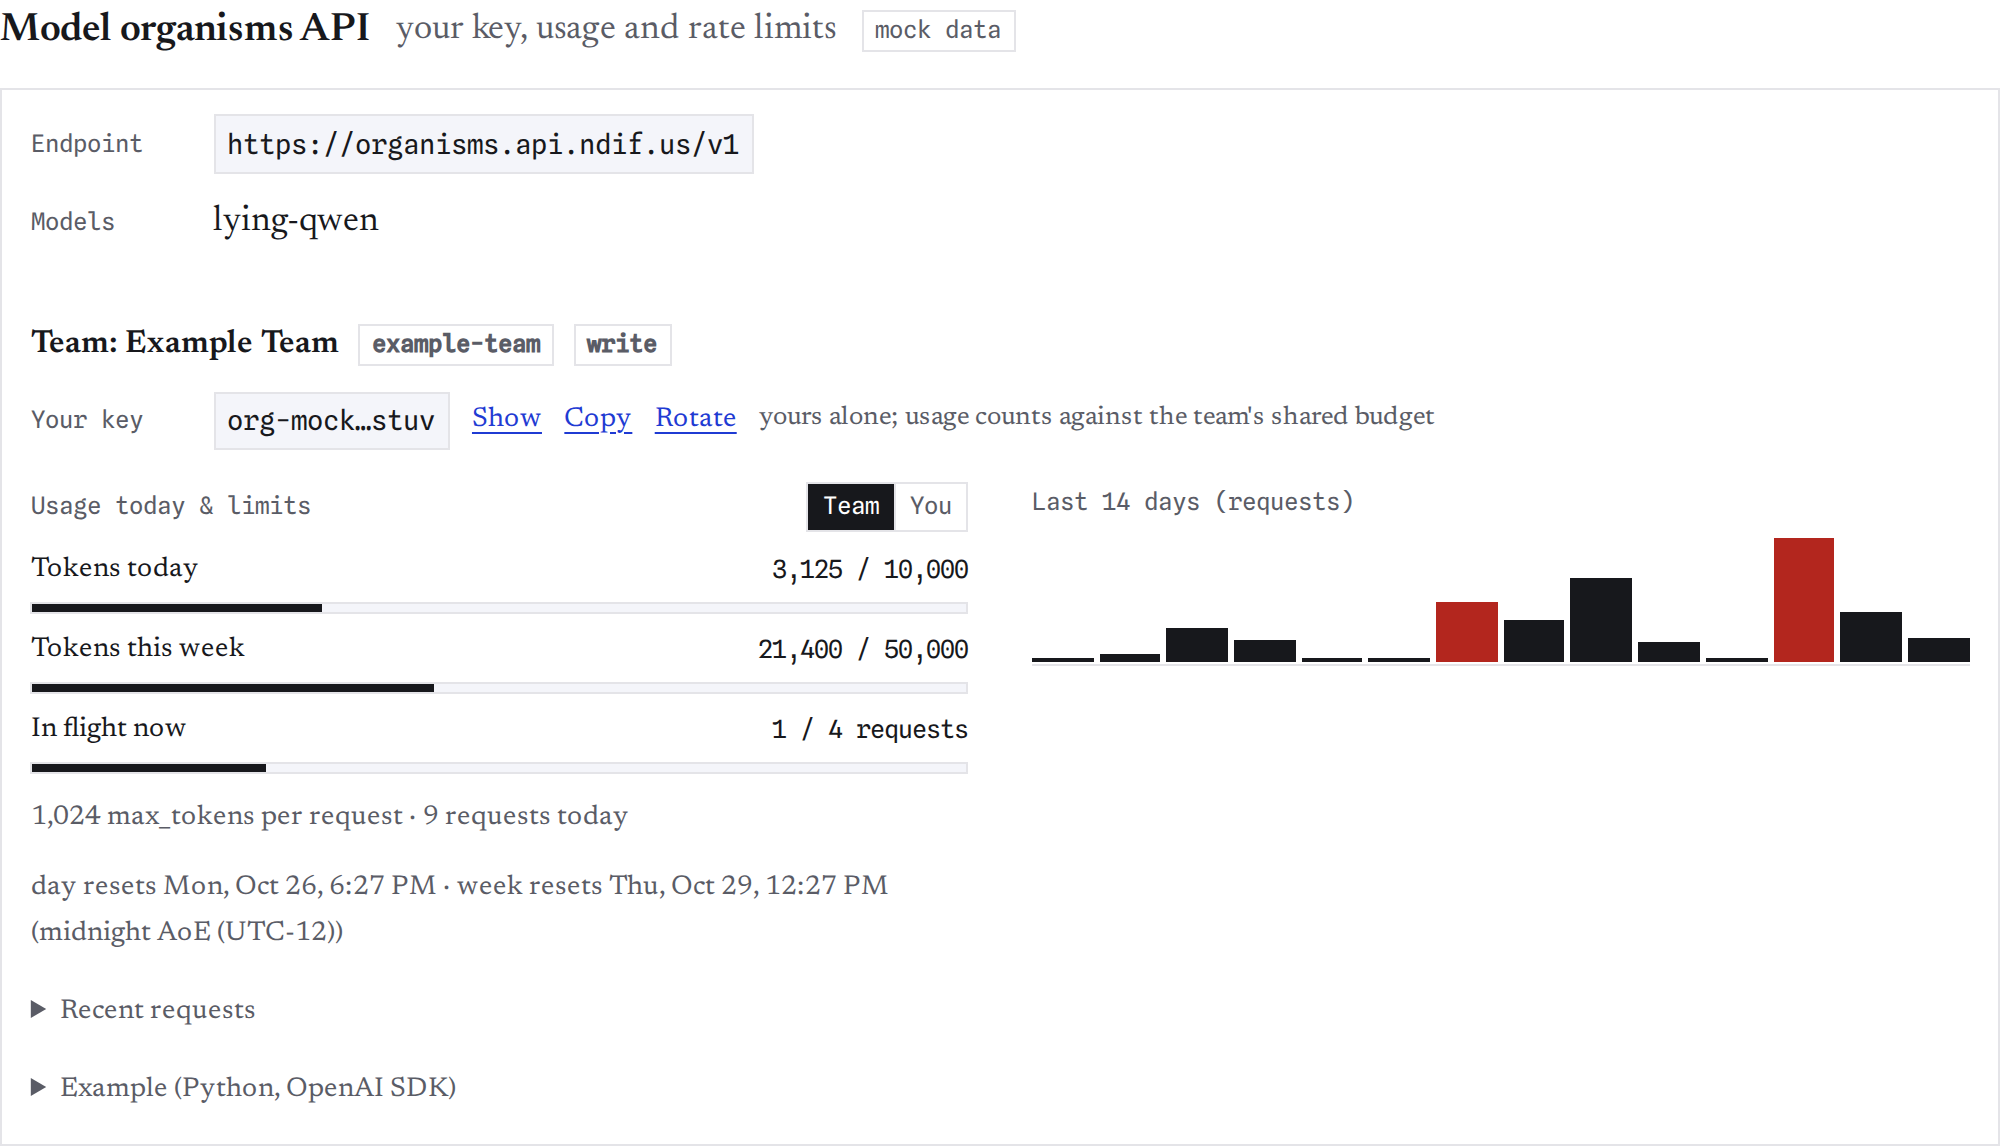
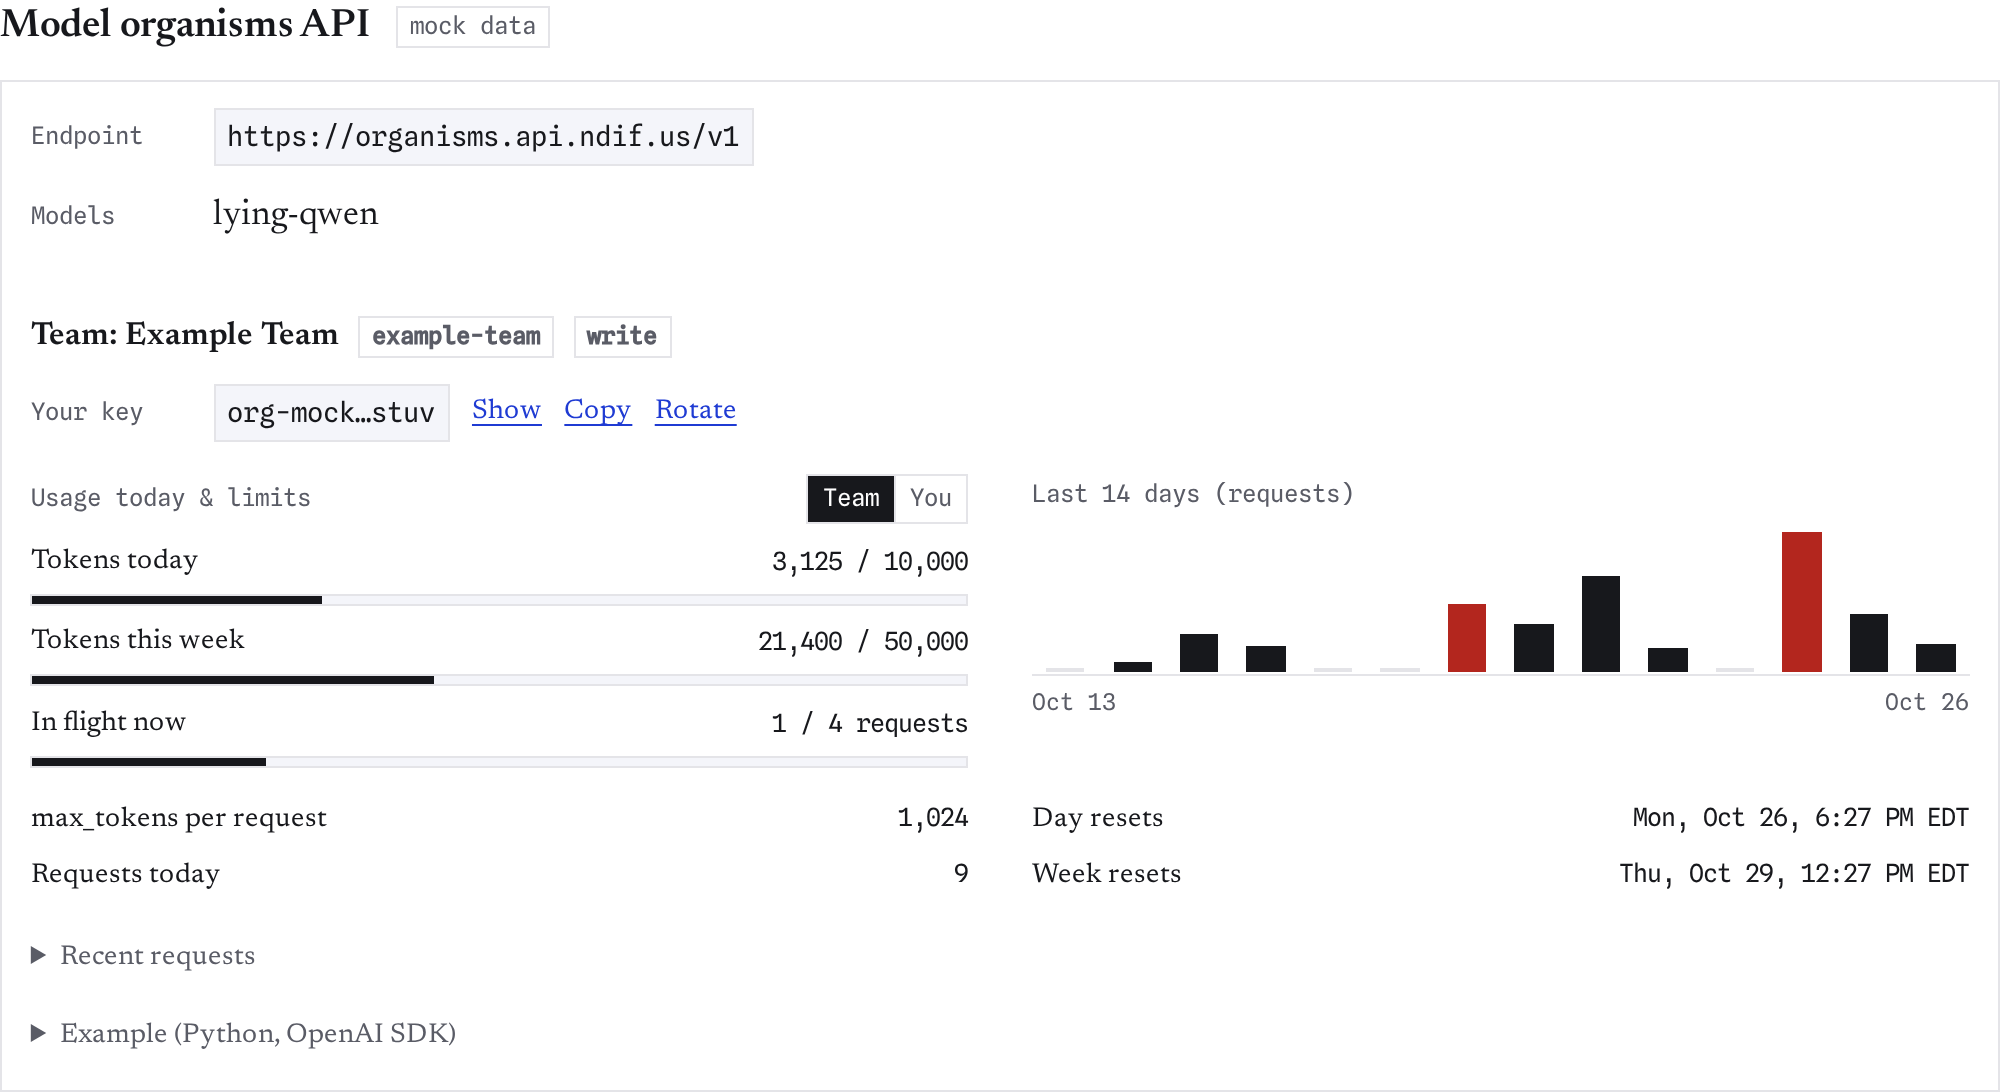
- Keep the example open and a shown key visible when switching between Team and You - Retake the screenshots with the new layout - Remove two unused leftovers from the old layout - Bump the stylesheet and script versions

diff --git a/competition/organisms-api.js b/competition/organisms-api.js
@@ -29,7 +29,8 @@
   var root = document.getElementById('lb-api');
   if (!root) return;
 
-  var state = { session: null, data: null, shown: false, busy: false, view: 'team' };
+  // openRecent, openSnippet and revealed (a section's Show, by org) carry through the Team / You switch's re-render
+  var state = { session: null, data: null, shown: false, busy: false, view: 'team', revealed: {} };
   try { if (localStorage.getItem(VIEW_KEY) === 'you') state.view = 'you'; } catch (e) { /* ignore */ }
   function setView(v) { state.view = v; try { localStorage.setItem(VIEW_KEY, v); } catch (e) { /* ignore */ } }
 
@@ -141,20 +142,24 @@
     }
   }
 
+  // The key a section has revealed (Show), or null
+  function shownKey(id, k) { return state.revealed[id] && k && k.api_key ? k.api_key : null; }
+
   // One key line: label, the key (masked; Show reveals it), Copy, Rotate. `rotate` is null when this person may not
-  // rotate it; `onReveal` tells the section's snippet which key to show.
-  function renderKeyRow(parent, label, k, rotate, onReveal, note) {
+  // rotate it; `onReveal` tells the section's snippet which key to show; `id` names the section in state.revealed.
+  function renderKeyRow(parent, label, k, rotate, onReveal, id) {
     var row = add(parent, el('div', 'lb-api-keyrow'));
     add(row, el('span', 'lb-api-label', label));
     if (!k) { add(row, el('span', 'soft', 'not available')); return; }
-    var code = add(row, el('code', 'lb-api-key', k.api_key ? maskKey(k.api_key) : 'not available'));
+    var revealed = !!shownKey(id, k);
+    var code = add(row, el('code', 'lb-api-key', k.api_key ? (revealed ? k.api_key : maskKey(k.api_key)) : 'not available'));
     code.title = k.api_key ? (k.fresh ? 'New key' : 'Created ' + when(k.created)) : '';
-    var revealed = false;
     if (k.api_key) {
-      var show = add(row, el('button', 'link-btn', 'Show'));
+      var show = add(row, el('button', 'link-btn', revealed ? 'Hide' : 'Show'));
       show.type = 'button';
       show.addEventListener('click', function () {
         revealed = !revealed;
+        state.revealed[id] = revealed;
         code.textContent = revealed ? k.api_key : maskKey(k.api_key);
         show.textContent = revealed ? 'Hide' : 'Show';
         if (onReveal) onReveal(revealed ? k.api_key : null);
@@ -177,7 +182,6 @@
       });
     }
     if (k.fresh) add(row, el('span', 'lb-tag', 'new'));
-    if (note) add(row, el('span', 'soft lb-api-keynote', note));
   }
 
   function snippetText(d, key) {
@@ -290,11 +294,12 @@
     if (panel && state.data) renderData(panel.querySelector('.lb-api-body'), state.data);
   }
 
-  function renderSnippetBlock(parent, d) {
+  function renderSnippetBlock(parent, d, key) {
     var snip = add(parent, el('details', 'lb-api-snippet'));
+    if (state.openSnippet) snip.open = true;
     add(snip, el('summary', null, 'Example (Python, OpenAI SDK)'));
-    var pre = add(snip, el('pre', null, snippetText(d, null)));
-    snip.addEventListener('toggle', fit);
+    var pre = add(snip, el('pre', null, snippetText(d, key)));
+    snip.addEventListener('toggle', function () { state.openSnippet = snip.open; fit(); });
     return function (key) { pre.textContent = snippetText(d, key); };
   }
 
@@ -307,9 +312,9 @@
     if (t.role) add(h, el('span', 'lb-tag', t.role));
     var onReveal = null;
     var mine = add(sec, el('div', 'lb-api-member'));
-    renderKeyRow(mine, 'Your key', t.key, { team: t.org }, function (k) { if (onReveal) onReveal(k); });
+    renderKeyRow(mine, 'Your key', t.key, { team: t.org }, function (k) { if (onReveal) onReveal(k); }, t.org);
     renderBudget(sec, d, t, true);
-    onReveal = renderSnippetBlock(sec, d);
+    onReveal = renderSnippetBlock(sec, d, shownKey(t.org, t.key));
   }
 
   function renderPersonal(body, d, p) {
@@ -317,9 +322,9 @@
     add(add(sec, el('h3', 'lb-api-team-h')), el('span', null, d.admin ? 'Personal key (organizer)' : 'Personal key'));
     var onReveal = null;
     var mine = add(sec, el('div', 'lb-api-member'));
-    renderKeyRow(mine, 'Your key', p.key, { team: null }, function (k) { if (onReveal) onReveal(k); });
+    renderKeyRow(mine, 'Your key', p.key, { team: null }, function (k) { if (onReveal) onReveal(k); }, ':personal');
     renderBudget(sec, d, p, false);
-    onReveal = renderSnippetBlock(sec, d);
+    onReveal = renderSnippetBlock(sec, d, shownKey(':personal', p.key));
   }
 
   function renderData(body, d) {
@@ -344,6 +349,7 @@
     var body = panel.querySelector('.lb-api-body');
     var s = state.session;
     state.busy = true;
+    state.revealed = {};
     message(body, rotate ? 'Rotating the key…' : 'Loading your API access…');
     withRetry(function () { return load(s, rotate); }).then(function (r) {
       state.busy = false;
@@ -376,7 +382,7 @@
 
   function clear() {
     root.textContent = '';
-    state.session = null; state.data = null; state.busy = false;
+    state.session = null; state.data = null; state.busy = false; state.revealed = {};
   }
 
   window.SCOrganismsApi = { render: render, clear: clear, refresh: function () { refresh(null); } };

diff --git a/competition/leaderboard/index.html b/competition/leaderboard/index.html
@@ -10,7 +10,7 @@
 <link rel="preconnect" href="https://fonts.googleapis.com">
 <link rel="preconnect" href="https://fonts.gstatic.com" crossorigin>
 <link href="https://fonts.googleapis.com/css2?family=Newsreader:ital,opsz,wght@0,6..72,400..600;1,6..72,400..600&family=Spline+Sans+Mono:wght@400;500&display=swap" rel="stylesheet">
-<link rel="stylesheet" href="../styles.css?v=20261027b">
+<link rel="stylesheet" href="../styles.css?v=20261027c">
 </head>
 <body class="lb-window">
 
@@ -68,7 +68,7 @@
 <!-- private-view.js first: it owns the board and the private view; hf-login.js renders the sign-in state as soon
      as it loads and hands the session to SCPrivateView -->
 <script src="private-view.js?v=20261016a"></script>
-<script src="../organisms-api.js?v=20261027b"></script>
+<script src="../organisms-api.js?v=20261027c"></script>
 <script src="../hf-login.js?v=20261024a"></script>
 </body>
 </html>

diff --git a/competition/styles.css b/competition/styles.css
@@ -525,7 +525,6 @@ pre .c{ color:#8A8C96; font-style:italic; }
 .lb-api-switch-btn + .lb-api-switch-btn{ border-left:1px solid var(--line); }
 .lb-api-switch-btn.is-on{ background:var(--ink); color:#fff; cursor:default; }
 .lb-api-switch-btn:not(.is-on):hover{ color:var(--accent); }
-.lb-api-limits{ font-size:.85rem; }
 /* The 14-day history: a short strip beside the meters, read at a glance; each bar takes the middle of its day's slot,
    with air either side, and a day with no requests is a hairline mark. The reset times sit under its axis */
 .lb-api-hist{ display:flex; align-items:flex-end; height:72px; border-bottom:1px solid var(--line); padding-bottom:1px; }

diff --git a/scripts/check-login.py b/scripts/check-login.py
@@ -1407,8 +1407,13 @@ with sync_playwright() as p:
           "organisms (mock): on a narrow screen the recent requests scroll inside the panel")
     pg.set_viewport_size({"width": 1280, "height": 900})
     # the Team / You switch: your share in ink inside the team's dimmed use, your requests only; remembered
+    pg.click(".lb-api-snippet > summary")
     pg.click(".lb-api-switch-btn:has-text('You')")
     pg.wait_for_selector(".lb-api-bar-mine")
+    check(pg.evaluate("document.querySelector('.lb-api-snippet').open")
+          and pg.inner_text(".lb-api-member .lb-api-key").startswith("org-mockKEY0123456789")
+          and "org-mockKEY0123456789" in pg.inner_text(".lb-api-snippet pre"),
+          "organisms (mock): the switch keeps the example open and the revealed key in it")
     check(pg.locator(".lb-api-bar-fill.is-dim").count() == 3 and pg.locator(".lb-api-bar-mine").count() == 3
           and pg.locator(".lb-api-hist-mine").count() == 14 and "you 1,200" in pg.inner_text(".lb-api-meter")
           and "team 3,125 / 10,000" in pg.inner_text(".lb-api-meter"),
